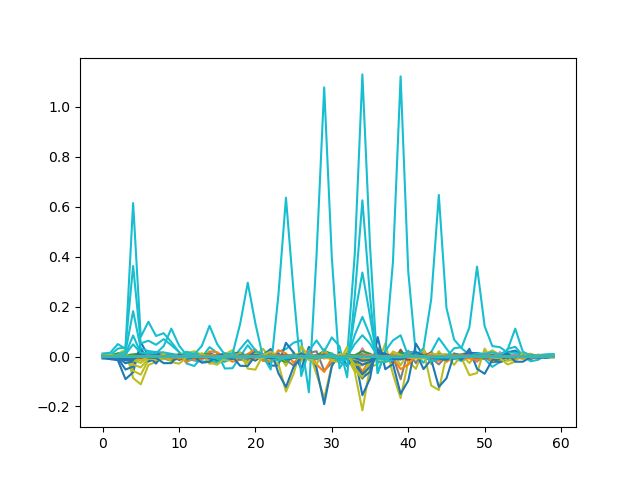
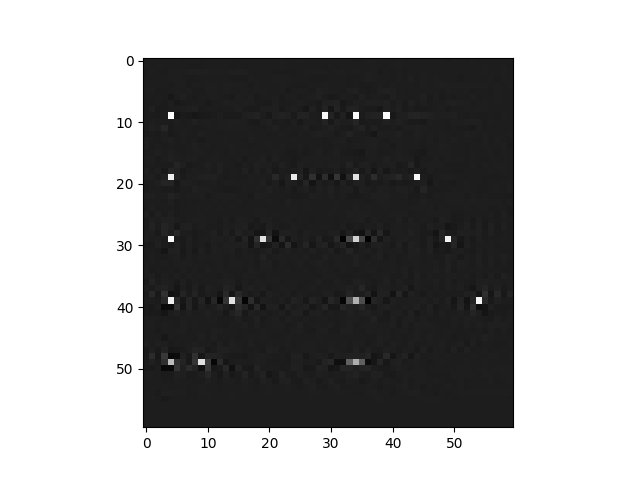
mandioca

diff --git a/testServer.py b/testServer.py
@@ -4,30 +4,21 @@ import socket as st
 import numpy as np
 import matplotlib.pyplot as plt
 from matplotlib.ticker import MaxNLocator
-from itertools import product
-from warnings import warn
 
 def read_csv(filename, return_type):
     prefix = 'Tarefa02/'
     with open(prefix + filename, "r") as csvfile:
         datareader = csv.reader(csvfile)
         for row in datareader:
-            is_v = len(row) > 0
-            break
-        if is_v:
-            for row in datareader:
-                yield [return_type(i) for i in row]
-        else:
-            for row in datareader:
-                yield return_type(i)
+            yield [return_type(i) for i in row]
 
 def load_csvs():
     print("Loading files")
     start_time = time.time()
     H = list(read_csv('H-1.csv', float))
-    print("H matrix loaded")
+    print(f"H matrix loaded")
     g = list(read_csv('G-1.csv', float))
-    print("G signal loaded")
+    print(f"{len(g)} lines of G signal loaded")
     end_time = time.time()
     print("Finished loading")
     print(f"Load time: {end_time - start_time}")
@@ -63,30 +54,26 @@ def listen_socket(s, H, g):
 
 def cgne(H, g):
 
-     f = np.zeros((3600, 1))
-     print(len(f))
-     r = g - np.dot(H, f)
-     print(len(r))
-     p = np.dot(np.transpose(H), r)
-     rsold = np.dot(np.transpose(r), r)
-     erro = 1e10-4
+    f = np.zeros((3600, 1))
+    r = g - np.dot(H, f)
+    p = np.dot(np.transpose(H), r)
+    erro = 1e-4
 
-     for i in range(1, len(g)):
+    for i in range(1, len(g)):
+        ap = np.dot(H, p)
+        rsold = np.dot(np.transpose(r), r)
 
-         ap = np.dot(H, p)
+        a = rsold / np.dot(np.transpose(p), p)
+        f = f + np.dot(a, p)
+        r = r - np.dot(a, ap)
+        beta = np.dot(np.transpose(r), r) / rsold
 
-         a = rsold / np.dot(np.transpose(p), p)
-         f = f + a * p
-         r = r - a * ap
-         rsnew = np.dot(np.transpose(r), r)
+        if beta < erro:
+            break
 
-         if np.sqrt(rsnew) < erro:
-             break
+        p = np.dot(np.transpose(H), r) + beta * p
 
-         p = r + (rsnew / rsold) * p
-         rsold = rsnew
-
-     return f
+    return f
 
 # def cgne02(H, g):
 
@@ -150,19 +137,19 @@ if __name__ == '__main__':
 
     f = cgne(H, g)
 
-    print(len(f))
-
     #fig, ax = plt.subplots(figsize=(60, 60))
     #X, Y, Z = create_mesh(f)
     #ax = plot_contour(ax, X, Y, Z)
     #ax.plot(xs[:,0], xs[:,1], linestyle='--', marker='o', color='orange')
     #ax.plot(xs[-1,0], xs[-1,1], 'ro')
     #plt.show()
+    
 
     f = np.reshape(f, (60, 60))
 
-    plt.plot(f)
-    #plt.imshow(f, cmap='gray', vmin=0, vmax=255)
+    f = np.transpose(f)
+
+    plt.imshow(f, cmap='gray')
     plt.savefig('image.png')
     
     #print(H)

diff --git a/transpose.py b/transpose.py
@@ -1,0 +1,14 @@
+import csv
+import numpy as np
+
+def load(path):
+    with open(path, "r") as csvfile:
+        datareader = csv.reader(csvfile)
+        for row in datareader:
+            yield row
+
+if "__main__" == __name__:
+    path = "Tarefa02/G-1.csv"
+    g = list(load(path))
+    g.tobytes()
+    
